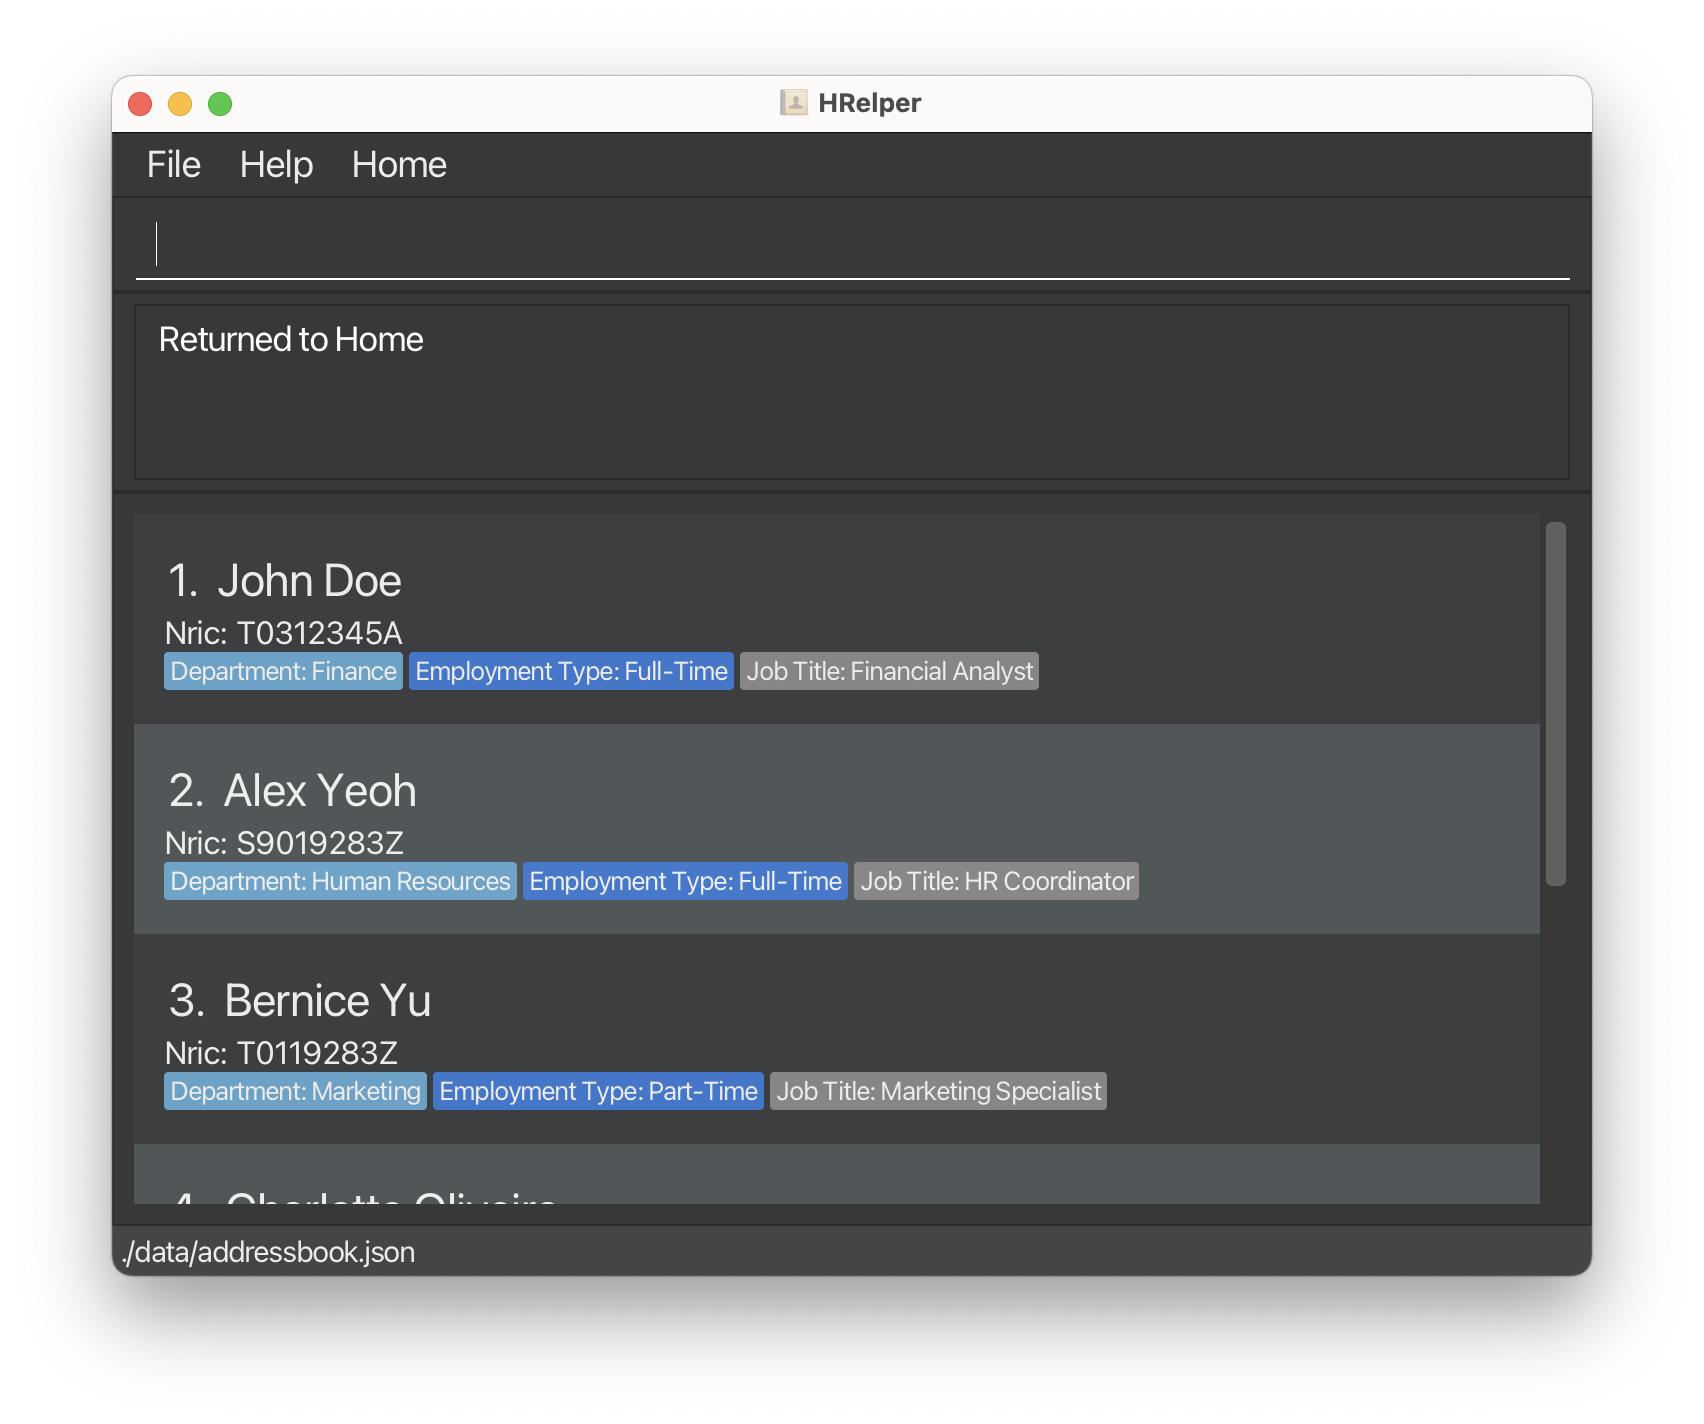
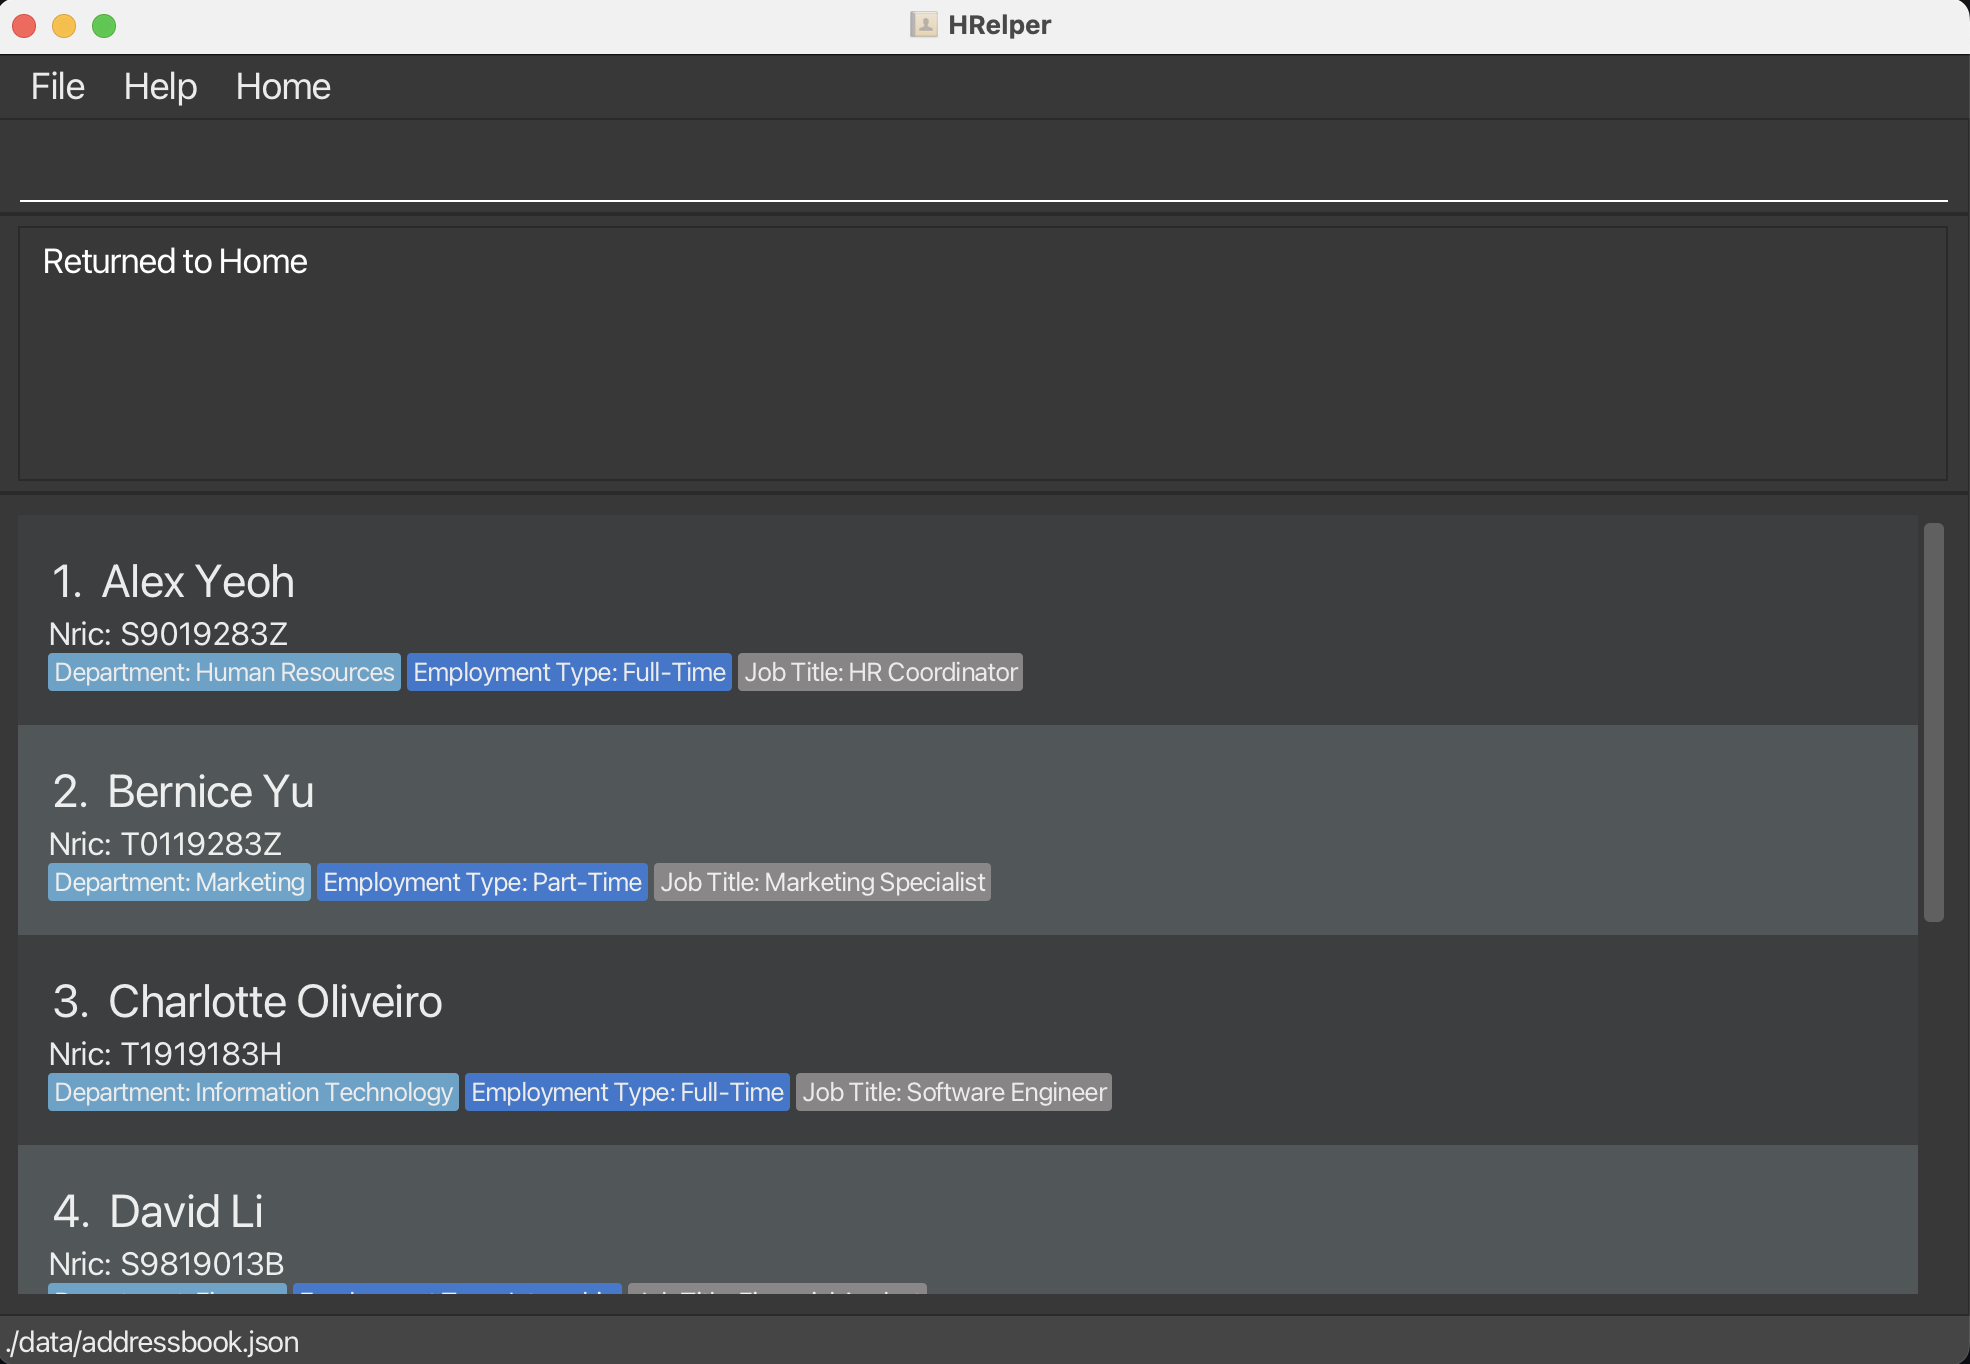
Update UI

diff --git a/src/main/java/seedu/address/ui/PersonNoteCard.java b/src/main/java/seedu/address/ui/PersonNoteCard.java
@@ -31,6 +31,8 @@ public class PersonNoteCard extends UiPart<Region> {
     @FXML
     private Label id;
     @FXML
+    private Label nric;
+    @FXML
     private HBox cardPane;
     @FXML
     private HBox tagBox;
@@ -74,6 +76,7 @@ public class PersonNoteCard extends UiPart<Region> {
         this.person = person;
         id.setText(displayedIndex + ". ");
         name.setText(person.getName().fullName);
+        nric.setText(person.getNric().value);
         note.setText(person.getNote().value);
 
         Tag tag = person.getTag();

diff --git a/docs/UserGuide.md b/docs/UserGuide.md
@@ -237,9 +237,10 @@ Format: `findByEmploymentType EMPLOYMENT_TYPE`
 * Only alphabetic characters and hyphens are allowed in search terms
 
 Examples:
-* `findByEmploymentType Full-Time` returns all full-time employees
 * `findByEmploymentType Part-Time` returns all part-time employees
 * `findByEmploymentType Contract` returns all contractors
+* `findByEmploymentType Full-Time` returns all full-time employees (e.g shown below)
+![findByEmploymentType](images/findByEmploymentType.png)
 
 ### Deleting a person : `delete`
 
